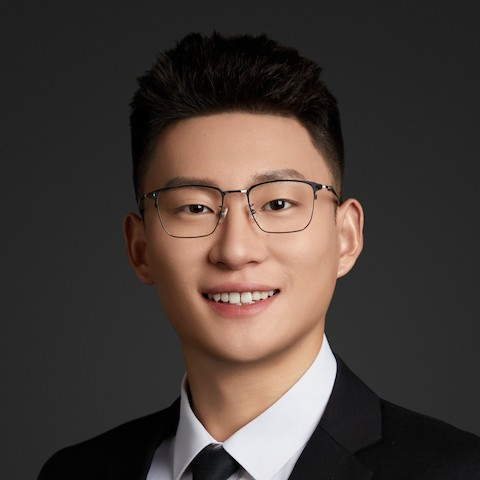
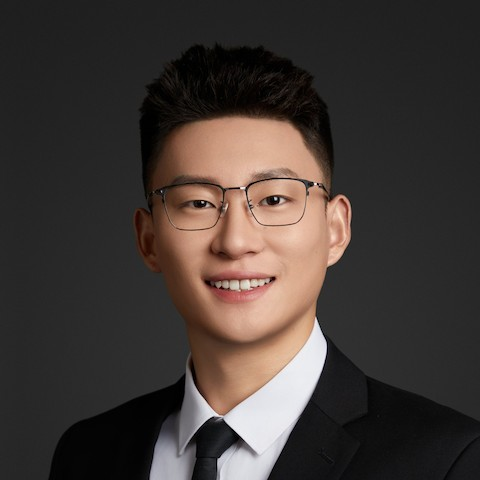
Use a looser crop for the profile photo
Same studio portrait, framed wider so the tie knot shows (head about 61%
of the frame instead of 68%). The face sits left of the photo's centre,
so 78 px of plain background is mirrored on the left to keep it centred;
that strip falls outside the circular frame except a thin sliver of
background. Still 480x480, now 24 KB.

Claude-Session: https://claude.ai/code/session_012FBsg9QhhW4Pqxi5SBKEqz

Changed region(s): [[0.0625, 0.0625, 0.7812, 1.0], [0.75, 0.7812, 1.0, 0.9062]]

diff --git a/README.md b/README.md
@@ -10,7 +10,7 @@
 | 首页求职信息（JMP、领域、毕业时间、推荐人） | `config.yml` 里的 `profileMode.jobMarket` |
 | 论文 | `content/papers/<论文>/index.md`，PDF 放在同一个文件夹 |
 | 教学 | `content/teaching.md` |
-| 照片 | `static/picture.jpeg`：480×480 的正方形 JPEG，约 26 KB，首页显示成 160px 的圆形。换照片时同名覆盖，尺寸和大小保持在这个量级，不要直接放相机或影楼原图 |
+| 照片 | `static/picture.jpeg`：480×480 的正方形 JPEG，约 24 KB，首页显示成 160px 的圆形。换照片时同名覆盖，尺寸和大小保持在这个量级，不要直接放相机或影楼原图 |
 | CV | 在 Overleaf 里改，自动同步到 `static/Li_Yuchao_CV.pdf`（英文）和 `static/Li_Yuchao_CV_zh.pdf`（中文），见下文"更新 CV" |
 | 网站地址 | `config.yml` 第一行的 `baseURL`（https://www.yuchaoli.com/） |
 | GitHub Pages 部署 | `.github/workflows/hugo.yml` |
